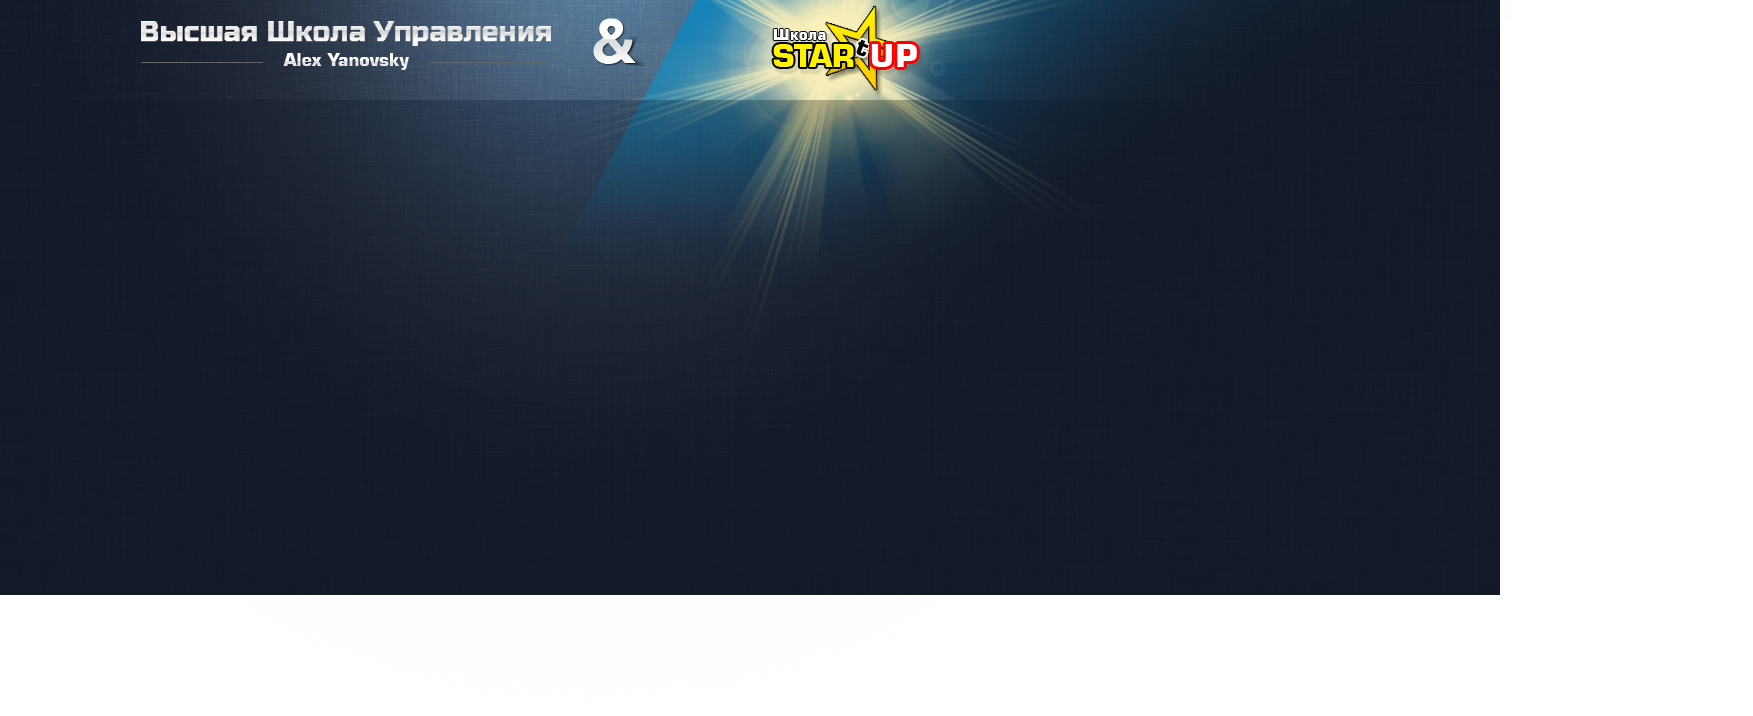
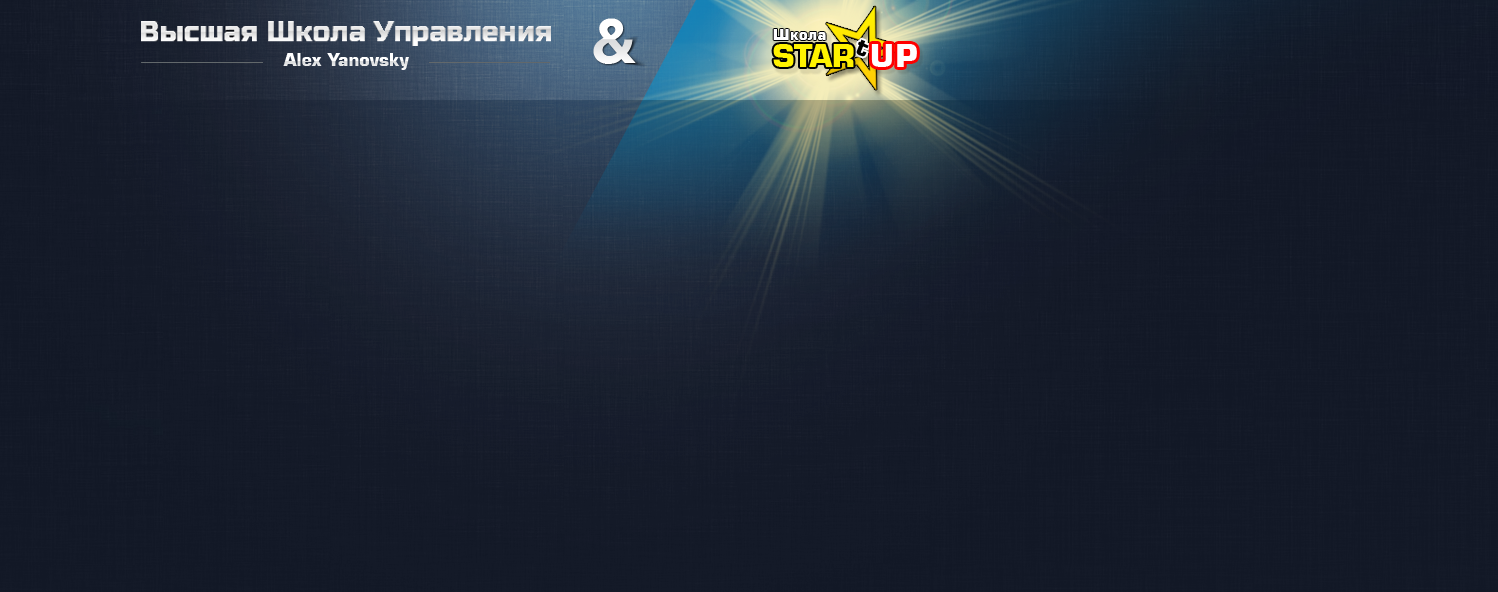
work around header

diff --git a/page2/css/header.css b/page2/css/header.css
@@ -2,6 +2,15 @@ div.header
 {
     background: url("../assets/header/background.png");
 
-    width: 1753px;
-    height: 716px;
+    width: 1498px;
+    height: 592px;
+
+    margin: 0 auto;
+}
+
+div.headerFilter
+{
+    width: 211px;
+    height: 592px;
+
 }

diff --git a/common/css/transparency.css b/common/css/transparency.css
@@ -1,0 +1,24 @@
+.transparent10
+{
+    opacity: 0.1;
+}
+
+.transparent20
+{
+    opacity: 0.2;
+}
+
+.transparent30
+{
+    opacity: 0.3;
+}
+
+.transparent40
+{
+    opacity: 0.4;
+}
+
+.transparent50
+{
+    opacity: 0.5;
+}

diff --git a/page2/css/common.css b/page2/css/common.css
@@ -3,6 +3,14 @@ body.defaultBody
     background: url("../assets/body/background.jpg");
 }
 
+div.bodyFilter
+{
+    background-color: #000000;
+
+    width: 500px;
+    height: 500px;
+}
+
 div.content
 {
     width: 1200px;

diff --git a/page2/index.html b/page2/index.html
@@ -28,6 +28,10 @@
 
 </div>
 
+<div class="bodyFilter">
+
+</div>
+
 <div class="content">
 
 </div>
